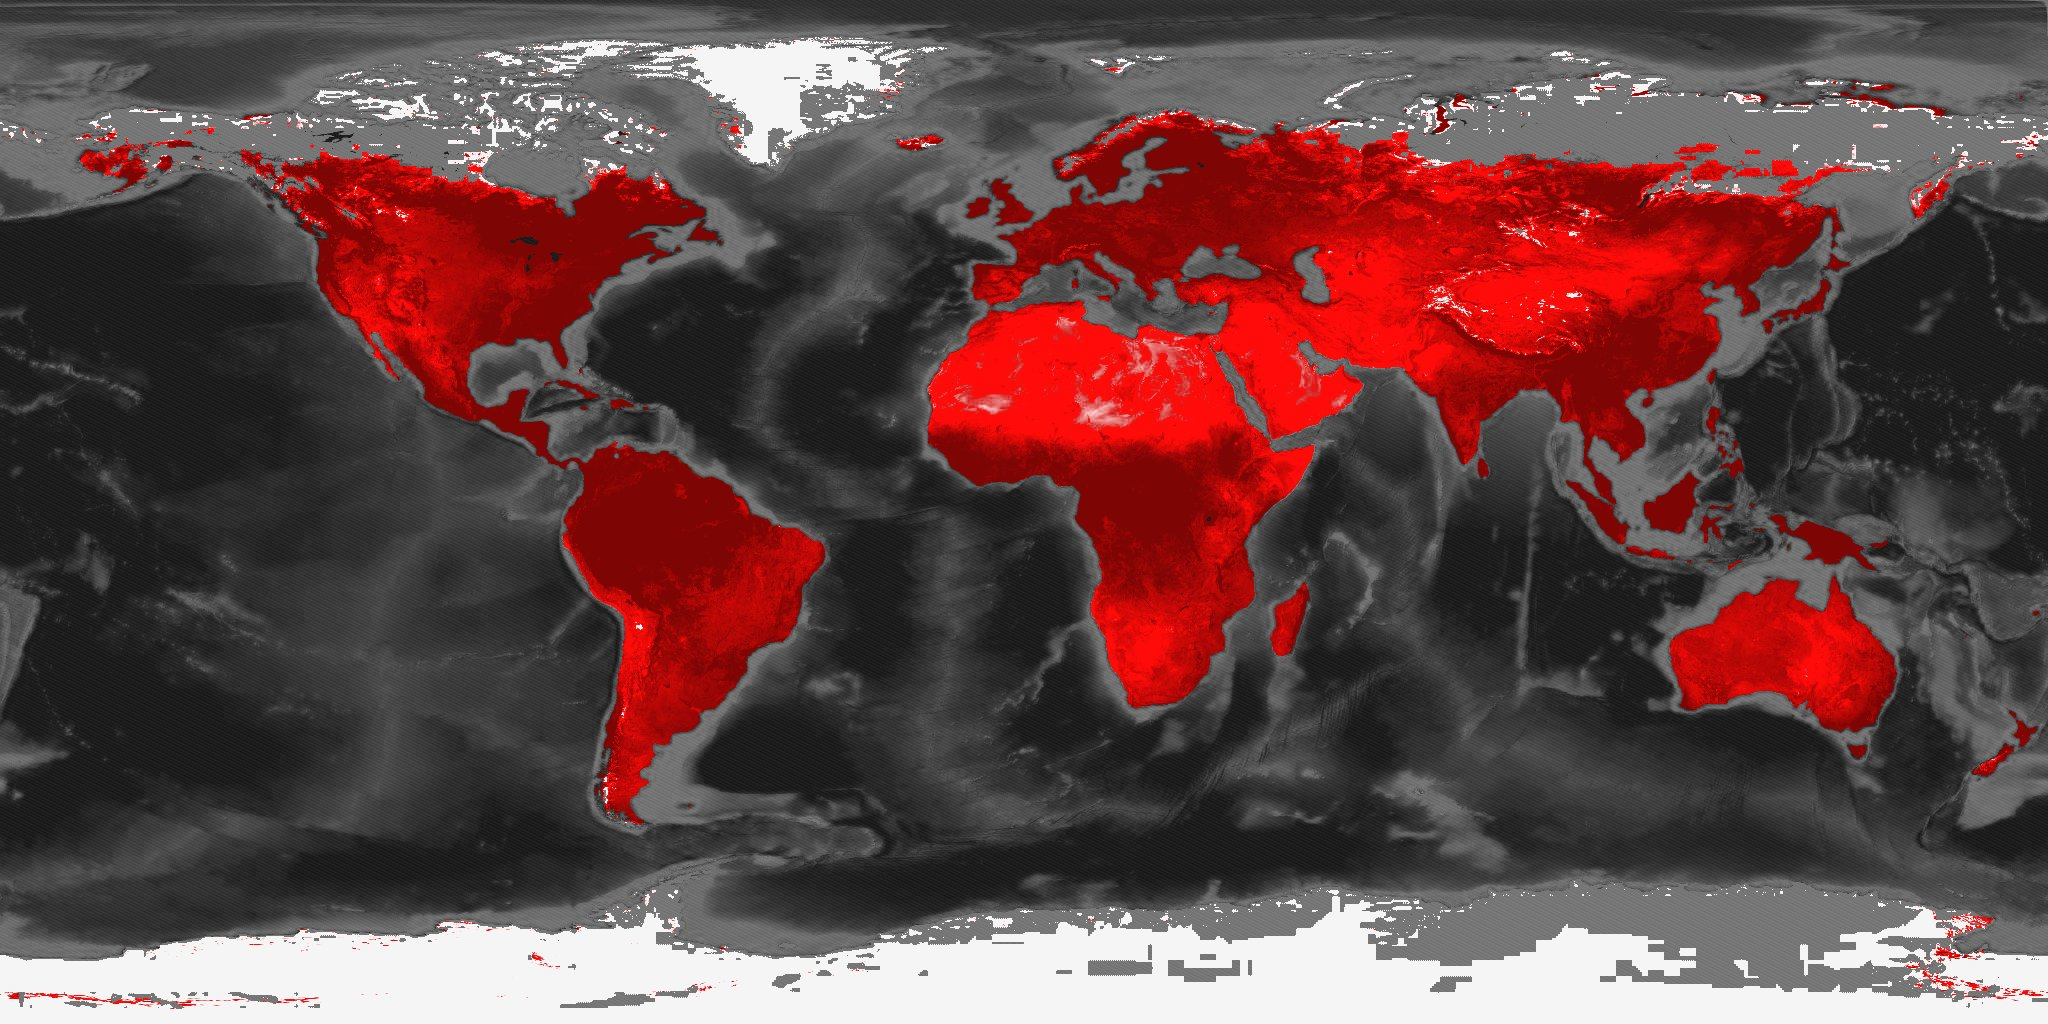
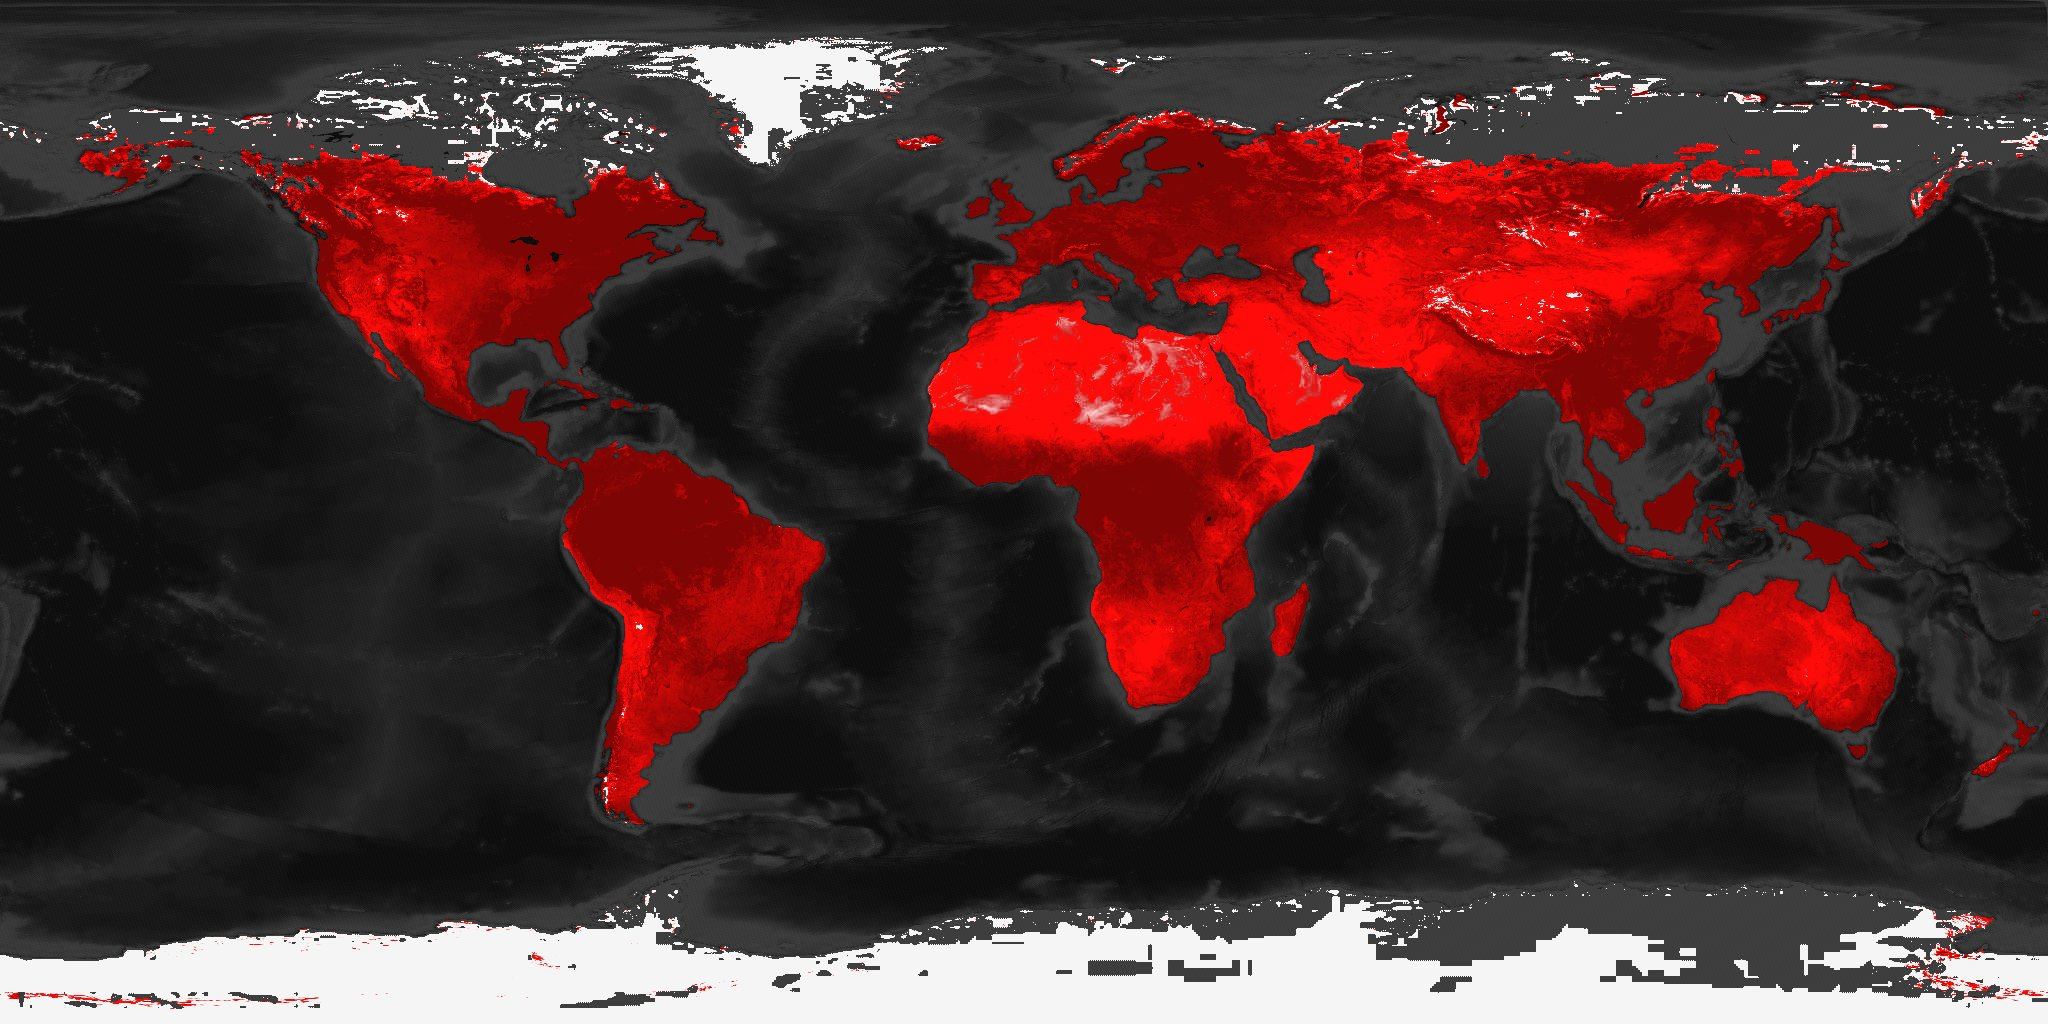
Start the globe on the Atlantic, show the north pole, soften ocean grey.
Biases the map framing north and offsets longitude so refresh opens mid-ocean.

diff --git a/css/styles.css b/css/styles.css
@@ -15,6 +15,8 @@
   --brand-line-height: 0.95;
   /* Fallback before JS measures the real brand box; ticker is ignored */
   --globe-size: calc(var(--brand-size) * var(--brand-line-height) * 2);
+  /* Longitude start: Atlantic facing forward (map scrolls from here) */
+  --earth-lon: 46%;
   --title-gap: clamp(0.85rem, 2vh, 1.35rem);
   --byline-gap: clamp(0.7rem, 1.6vh, 1.1rem);
 }
@@ -176,14 +178,15 @@ body {
   height: 100%;
   border-radius: 50%;
   background-image: url("../assets/earth-map.jpg");
-  background-size: 200% 100%;
+  /* Taller map + top-anchored Y keeps the north polar cap in view */
+  background-size: 200% 118%;
   background-repeat: repeat-x;
-  background-position: 0% 50%;
+  background-position: var(--earth-lon) 0%;
   animation: earth-spin 48s linear infinite;
   box-shadow:
-    inset 1.1rem 0 1.6rem rgba(0, 0, 0, 0.65),
+    inset 1.1rem 0 1.6rem rgba(0, 0, 0, 0.55),
     inset -0.35rem 0 0.7rem rgba(255, 255, 255, 0.1),
-    inset 0 0 1.2rem rgba(0, 0, 0, 0.4),
+    inset 0 -0.35rem 1rem rgba(0, 0, 0, 0.35),
     0 0 2rem rgba(212, 24, 26, 0.22),
     0 0.4rem 1.5rem rgba(0, 0, 0, 0.45);
   position: relative;
@@ -196,8 +199,9 @@ body {
   inset: 0;
   border-radius: 50%;
   background:
-    radial-gradient(circle at 32% 28%, rgba(255, 255, 255, 0.22) 0%, transparent 26%),
-    radial-gradient(circle at 70% 70%, transparent 40%, rgba(0, 0, 0, 0.5) 100%);
+    radial-gradient(circle at 32% 28%, rgba(255, 255, 255, 0.2) 0%, transparent 26%),
+    radial-gradient(circle at 50% 0%, rgba(255, 255, 255, 0.14) 0%, transparent 22%),
+    radial-gradient(circle at 70% 78%, transparent 42%, rgba(0, 0, 0, 0.48) 100%);
   pointer-events: none;
 }
 
@@ -288,10 +292,10 @@ body {
 
 @keyframes earth-spin {
   from {
-    background-position: 0% 50%;
+    background-position: var(--earth-lon) 0%;
   }
   to {
-    background-position: -200% 50%;
+    background-position: calc(var(--earth-lon) - 200%) 0%;
   }
 }
 

diff --git a/scripts/recolor_earth.py b/scripts/recolor_earth.py
@@ -21,13 +21,12 @@ def is_ocean(r: int, g: int, b: int) -> bool:
 
 
 def ocean_pixel(x, y, r, g, b):
-  # Clearly visible dark-grey oceans (neutral). Original water brightness + grain
-  # drive depth so trenches/shallows read instead of flat ink.
+  # Subtle dark-grey ocean depth (neutral). Softer than the loud pass.
   water = max(b, (0.299 * r + 0.587 * g + 0.114 * b))
   depth = max(0.0, min(1.0, (water - 20) / 110.0))
-  grain = ((x * 37 + y * 17) % 13) - 6  # -6..6
-  v = int(28 + 90 * depth + grain)
-  v = max(22, min(125, v))
+  grain = ((x * 37 + y * 17) % 11) - 5  # -5..5
+  v = int(14 + 48 * depth + grain)
+  v = max(10, min(64, v))
   return (v, v, v)
 
 
